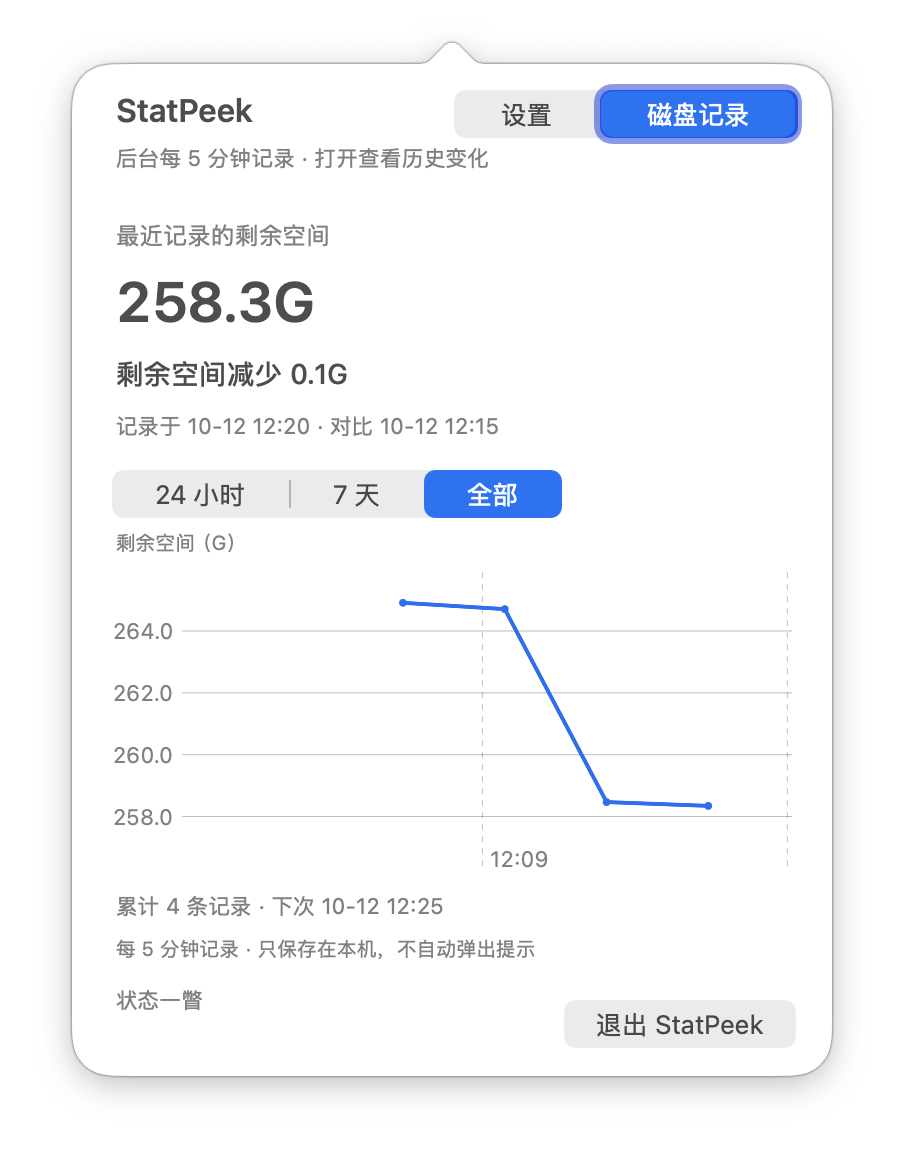
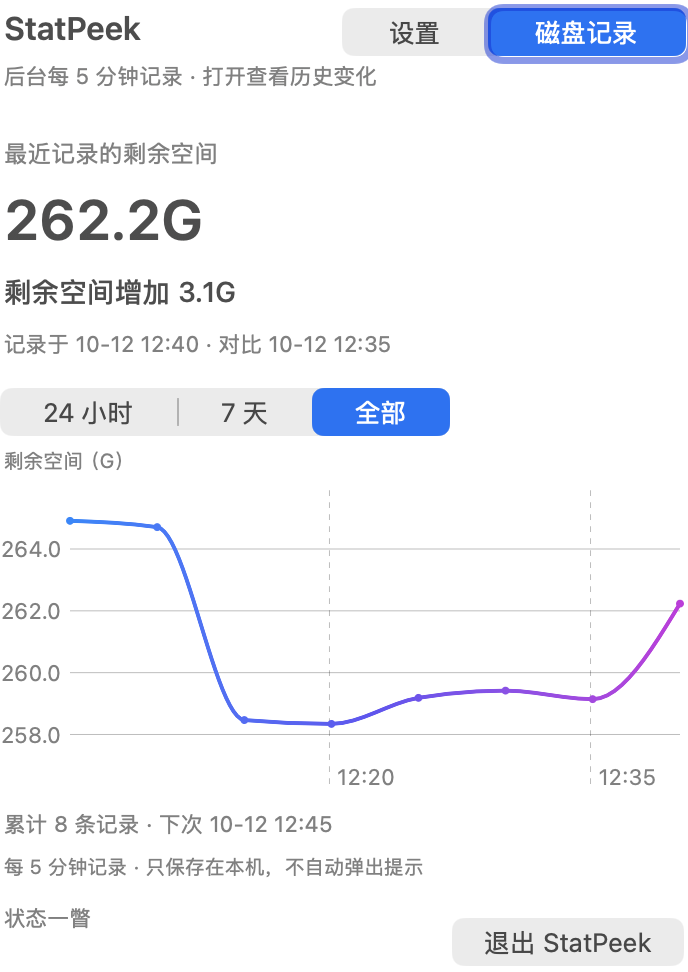
Render disk history as a smooth gradient curve

diff --git a/StatPeek/DiskHistoryViewController.swift b/StatPeek/DiskHistoryViewController.swift
@@ -117,6 +117,19 @@ private struct DiskHistoryChart: View {
     let range: DiskHistoryRange
     let now: Date
 
+    private var lineGradient: LinearGradient {
+        let domain = timeDomain
+        let span = domain.upperBound.timeIntervalSince(domain.lowerBound)
+        let first = samples.map(\.date).min() ?? domain.lowerBound
+        let last = samples.map(\.date).max() ?? domain.upperBound
+        // Keep the gradient across the actual history, even within a sparse 24-hour view.
+        let start = UnitPoint(x: first.timeIntervalSince(domain.lowerBound) / span, y: 0.5)
+        let end = UnitPoint(x: last.timeIntervalSince(domain.lowerBound) / span, y: 0.5)
+        return LinearGradient(colors: [.blue, .indigo, .purple],
+                              startPoint: first < last ? start : .leading,
+                              endPoint: first < last ? end : .trailing)
+    }
+
     private var points: [DiskChartPoint] {
         var segment = 0
         return samples.enumerated().map { index, sample in
@@ -156,11 +169,14 @@ private struct DiskHistoryChart: View {
                     LineMark(x: .value("时间", point.sample.date),
                              y: .value("剩余空间 G", Double(point.sample.availableBytes) / 1_000_000_000),
                              series: .value("连续记录", point.segment))
-                    .foregroundStyle(Color.accentColor)
+                    .interpolationMethod(.monotone)
+                    .foregroundStyle(lineGradient)
+                    .alignsMarkStylesWithPlotArea()
                     if samples.count <= 48 {
                         PointMark(x: .value("时间", point.sample.date),
                                   y: .value("剩余空间 G", Double(point.sample.availableBytes) / 1_000_000_000))
-                        .foregroundStyle(Color.accentColor)
+                        .foregroundStyle(lineGradient)
+                        .alignsMarkStylesWithPlotArea()
                         .symbolSize(12)
                     }
                 }

diff --git a/docs/VALIDATION.md b/docs/VALIDATION.md
@@ -1,13 +1,13 @@
 # 验证记录
 
-日期：2026-10-12（Asia/Shanghai）。本机 Apple Silicon、Xcode 27.1、Swift 6.4。当前版本 **0.2.0 / Build 3**，最低 macOS 13。
+日期：2026-10-12（Asia/Shanghai）。本机 Apple Silicon、Xcode 27.1、Swift 6.4。当前版本 **0.2.1 / Build 4**，最低 macOS 13。
 
 ## 自动检查
 
-- Release 下 **37 项 XCTest 通过，0 失败**。包含既有 23 项指标计算、紧凑布局、选择/配色保存和登录项测试，以及 10 项磁盘历史测试、4 项原生记录面板测试。
+- 0.2.0 的完整 Release 套件 **37 项 XCTest 通过，0 失败**。包含既有 23 项指标计算、紧凑布局、选择/配色保存和登录项测试，以及 10 项磁盘历史测试、4 项原生记录面板测试。
 - 磁盘历史覆盖：299 秒不读、300 秒记录；SQLite 关闭再打开与剩余到期时间；休眠后只采当下真实值；读取失败保留历史并延迟重试；增加/减少与不足 0.1G；换卷、时钟回退；全量保存和按范围读取；无效记录、损坏数据库保护；绘图保留端点、极值与断点。
 - 原生面板使用独立临时数据库验证基准/增加/减少、错误保留最后值、空记录不伪造零，以及真实绘图像素。测试用曲线数据只存在临时测试数据库，未注入实际用户记录。
-- 最终小圆玻璃标记的 Release 构建通过，并在最终安装应用中查看真实界面。自动测试通过后，该视觉调整未改变采样/持久化逻辑。
+- 本次 0.2.1 的平滑渐变曲线通过 **4 项记录面板测试，0 失败**，最终 Release 构建成功；测试实际绘制曲线。本次调整只涉及绘图，采样和存储实现不变。
 
 ## 本机界面
 
@@ -26,11 +26,18 @@
 
 - 使用正式 5 分钟周期和真实本机剩余量，初始四条分别在 12:05:06、12:10:06、12:15:06、12:20:06 写入，连续间隔 **300.376、300.470、300.056 秒**，未修改正式定时器或伪造记录。
 - 记录页显示真实剩余量、较前次增加或减少的一位小数 G 数、上次和本次采样时间、累计记录、下次采样时间，以及 24 小时/7 天/全部曲线。
-- 最终记录页截图使用实际用户数据库中的四条记录。读数曲线反映真实剩余空间变化，测试/构建期间产生的磁盘变化同样保留。
+- 最终记录页截图使用实际用户数据库中的真实记录。读数曲线反映真实剩余空间变化，测试/构建期间产生的磁盘变化同样保留。
 - 实际退出/启动后，历史记录和记录页选择恢复；未到五分钟边界时重启不新增重复记录。
 - 本机 SQLite 持续保留全量记录，不自动清除。取消状态栏磁盘显示不会停掉历史记录；这一点由独立记录控制器实现，虚拟时钟测试验证采样边界。休眠期间无伪造数据。
 
 证据见 [disk-history-acceptance.json](disk-history-acceptance.json)。安装副本在 12:25:06 继续写入第 5 条真实记录，间隔 300.076 秒；最终小圆标记的六段交互、原配色与启动项保留记录见 [installed-acceptance.json](installed-acceptance.json)。
+
+## 0.2.1 平滑渐变线条
+
+- 历史曲线采用单调三次插值，真实采样点保留，换卷与时钟回退仍分段；只修改显示，不修改采样记录。
+- 渐变用于线条本身，从蓝经靛蓝过渡至紫；起止位置按真实记录的时间跨度映射到绘图区，使 24 小时、7 天和全部范围均能呈现完整渐变。未添加曲线下方填充。
+- 最终安装副本已查看真实历史曲线，截图更新为 `assets/disk-history.png`。安装后复选框、原配色、已启用的开机启动项和历史数据保留，只有一个运行实例。
+- 证据见 [smooth-gradient-acceptance.json](smooth-gradient-acceptance.json)。
 
 ## 登录启动既有验证
 
@@ -40,8 +47,8 @@
 
 ## 安装
 
-- `/Applications/StatPeek.app` 已更新至 0.2.0 / Build 3 并启动。进程来自固定安装路径，只有一个实例。
[1 lines of base64/hex data omitted]
+- `/Applications/StatPeek.app` 已更新至 0.2.1 / Build 4 并启动。进程来自固定安装路径，只有一个实例。
[1 lines of base64/hex data omitted]
 - `codesign --verify --deep --strict` 通过；本机 ad hoc 签名，包含 arm64、x86_64。
 - 有效 plist：Bundle ID `com.zyapps.StatPeek`，Utilities 分类；`LSUIElement=true`、`ITSAppUsesNonExemptEncryption=false` 为布尔值。
 - 已移除本次临时验证应用、替换前备份和构建目录中的重复应用，保留一个固定名安装副本，源代码与用户数据库不删除。

diff --git a/docs/SPEC.md b/docs/SPEC.md
@@ -5,7 +5,7 @@
 Stat 表示系统状态，Peek 表示点开看一眼。产品、主 Target、共享 Scheme 均使用 StatPeek。
 当前任务完成原生 macOS 项目、本机界面验证、应用图标、Xcode 应用信息、Applications 安装，并推送到用户授权的 GitHub 公开仓库；商标核验与 App Store 上架另行处理。
 
-应用信息：StatPeek，Bundle ID `com.zyapps.StatPeek`，版本 0.2.0 / Build 3，Utilities 分类，最低 macOS 13.0。原型 `local.StatPeek` 的选择与配色在新标识首次启动时迁移，已有新偏好不覆盖。
+应用信息：StatPeek，Bundle ID `com.zyapps.StatPeek`，版本 0.2.1 / Build 4，Utilities 分类，最低 macOS 13.0。原型 `local.StatPeek` 的选择与配色在新标识首次启动时迁移，已有新偏好不覆盖。
 
 图标：深蓝底板、两排彩色状态指示，见 `icon-design.md`；AppIcon 资源包含 macOS 标准 16–1024 像素尺寸。
 
@@ -39,7 +39,7 @@ Stat 表示系统状态，Peek 表示点开看一眼。产品、主 Target、共
 - 全部记录持续保存在本机 Application Support 的 SQLite 数据库，不自动删除，不上传网络；时间、卷标识、原始字节数均保存。重启沿用上次记录与下次到期时间。
 - 未运行/休眠期间不伪造记录；重启或唤醒时若已到期，补采一条当下真实值。比较文字使用真实上次记录时间，不声称间隔总是恰好五分钟。
 - 换卷或时钟回退时建立新比较基准；读取/写入失败明确提示，保留历史，不将失败保存为零。差值不足可显示精度时提示变化小于 0.1G，不显示虚假的正负 0.0G。
-- 曲线提供 24 小时、7 天和全部范围。全量数据保留；绘图可以保留端点及局部极值进行降采样，避免多年数据绘图卡顿。只有一条记录时显示真实单点及等待提示，无虚构趋势。
+- 曲线提供 24 小时、7 天和全部范围。采用保持单调性的平滑三次插值，线条从蓝经靛蓝渐变至紫；渐变与整个绘图区对齐，真实采样点保留。全量数据保留；绘图可以保留端点及局部极值进行降采样，避免多年数据绘图卡顿。只有一条记录时显示真实单点及等待提示，无虚构趋势。
 - 保留现有两行状态栏、配色、勾选和开机启动项。状态栏全部指标采用字母 D/C/M/G，避免小 SF Symbol 难以辨认。
 - 颜色选择改为连续长胶囊，均分六种颜色；根据最新要求，选中段中央显示直径 18 点的小圆玻璃标记（macOS 26+ 原生 NSGlassEffectView），圆内附加勾号；保持六段长色条，无大型胶囊选中按钮。较旧系统使用高光兼容样式，保留键盘焦点、颜色名称与选择状态的辅助功能。
 - UI 范围：页签与记录页、设置浮层底色的可读性、六段胶囊配色；状态栏维持 107 点目标。先完成持久化和虚拟时钟测试，再构建、实际界面/重启验证，更新 Applications 与现有授权的 GitHub 交付。
@@ -86,3 +86,6 @@ Stat 表示系统状态，Peek 表示点开看一眼。产品、主 Target、共
 - [Apple NSPopover](https://developer.apple.com/documentation/appkit/nspopover)
 
 - [Apple SMAppService.mainApp](https://developer.apple.com/documentation/servicemanagement/smappservice/mainapp)
+
+- [Apple 平滑单调插值](https://developer.apple.com/documentation/charts/interpolationmethod/monotone)
+- [Apple 图表渐变对齐](https://developer.apple.com/documentation/charts/chartcontent/alignsmarkstyleswithplotarea%28_%3A%29)

diff --git a/README.md b/README.md
@@ -20,7 +20,7 @@ A compact macOS menu bar monitor. Selected metrics appear in two rows of colored
 - 设置浮层中的「开机自动启动」使用 macOS 原生登录启动项；勾选后在当前用户登录时启动，取消即注销。默认关闭，需要系统批准或设置失败时明确提示。
 - 磁盘保留一位小数，单位使用单字母，例如 `320.8G`。
 - 后台每 5 分钟记录一次磁盘剩余空间，即使取消磁盘显示也继续记录；只保存本机，静默运行。
-- 打开「磁盘记录」查看较上次增加或减少的一位小数 G 数，以及 24 小时、7 天和全部历史曲线。记录持续保留，重启沿用历史；休眠或退出期间不伪造采样。
+- 打开「磁盘记录」查看较上次增加或减少的一位小数 G 数，以及 24 小时、7 天和全部历史曲线；曲线平滑，线条从蓝渐变至紫。记录持续保留，重启沿用历史；休眠或退出期间不伪造采样。
 - 全部取消时仍保留一个可点击图标，随时恢复显示项。
 - 无第三方运行依赖，无网络请求，无 sudo 或常驻辅助进程。
 
@@ -53,7 +53,7 @@ xcodegen generate
 | --- | --- |
 | Product / Target / Scheme | StatPeek |
 | Bundle identifier | com.zyapps.StatPeek |
-| Version / Build | 0.2.0 / 3 |
+| Version / Build | 0.2.1 / 4 |
 | Category | Utilities |
 | Minimum macOS | 13.0 |
 | App icon | 10 个标准 macOS AppIcon 资源尺寸 |
